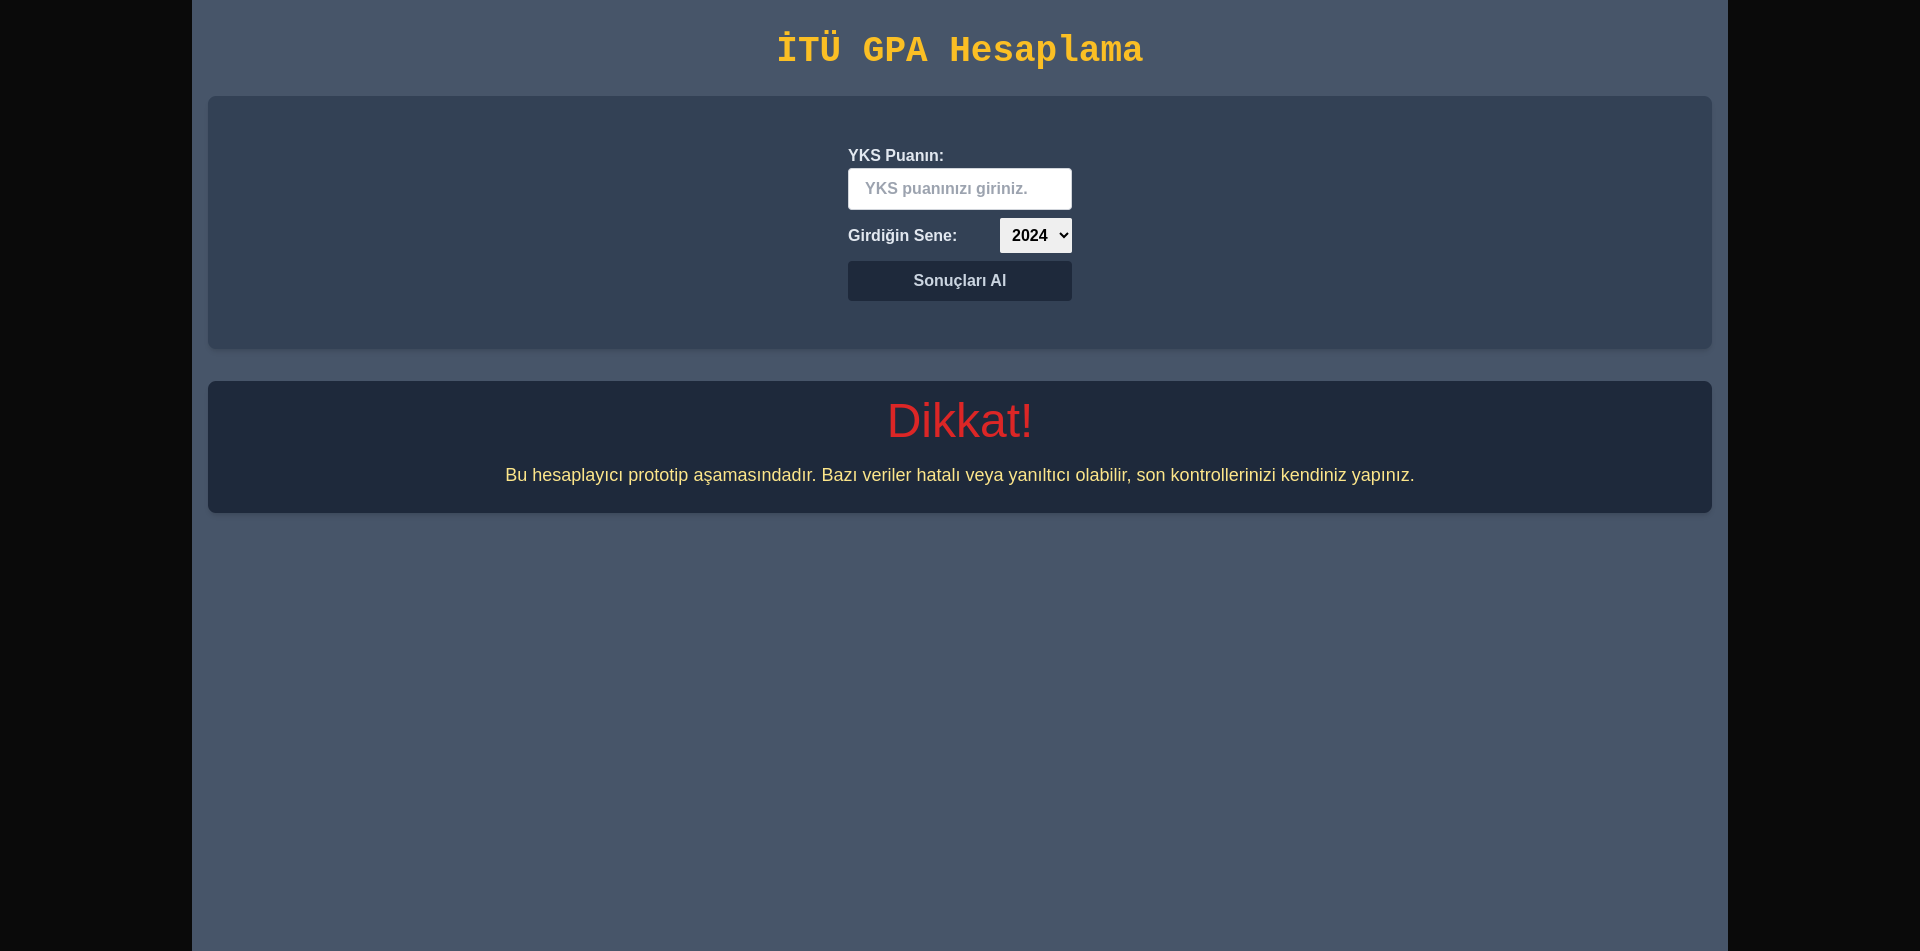
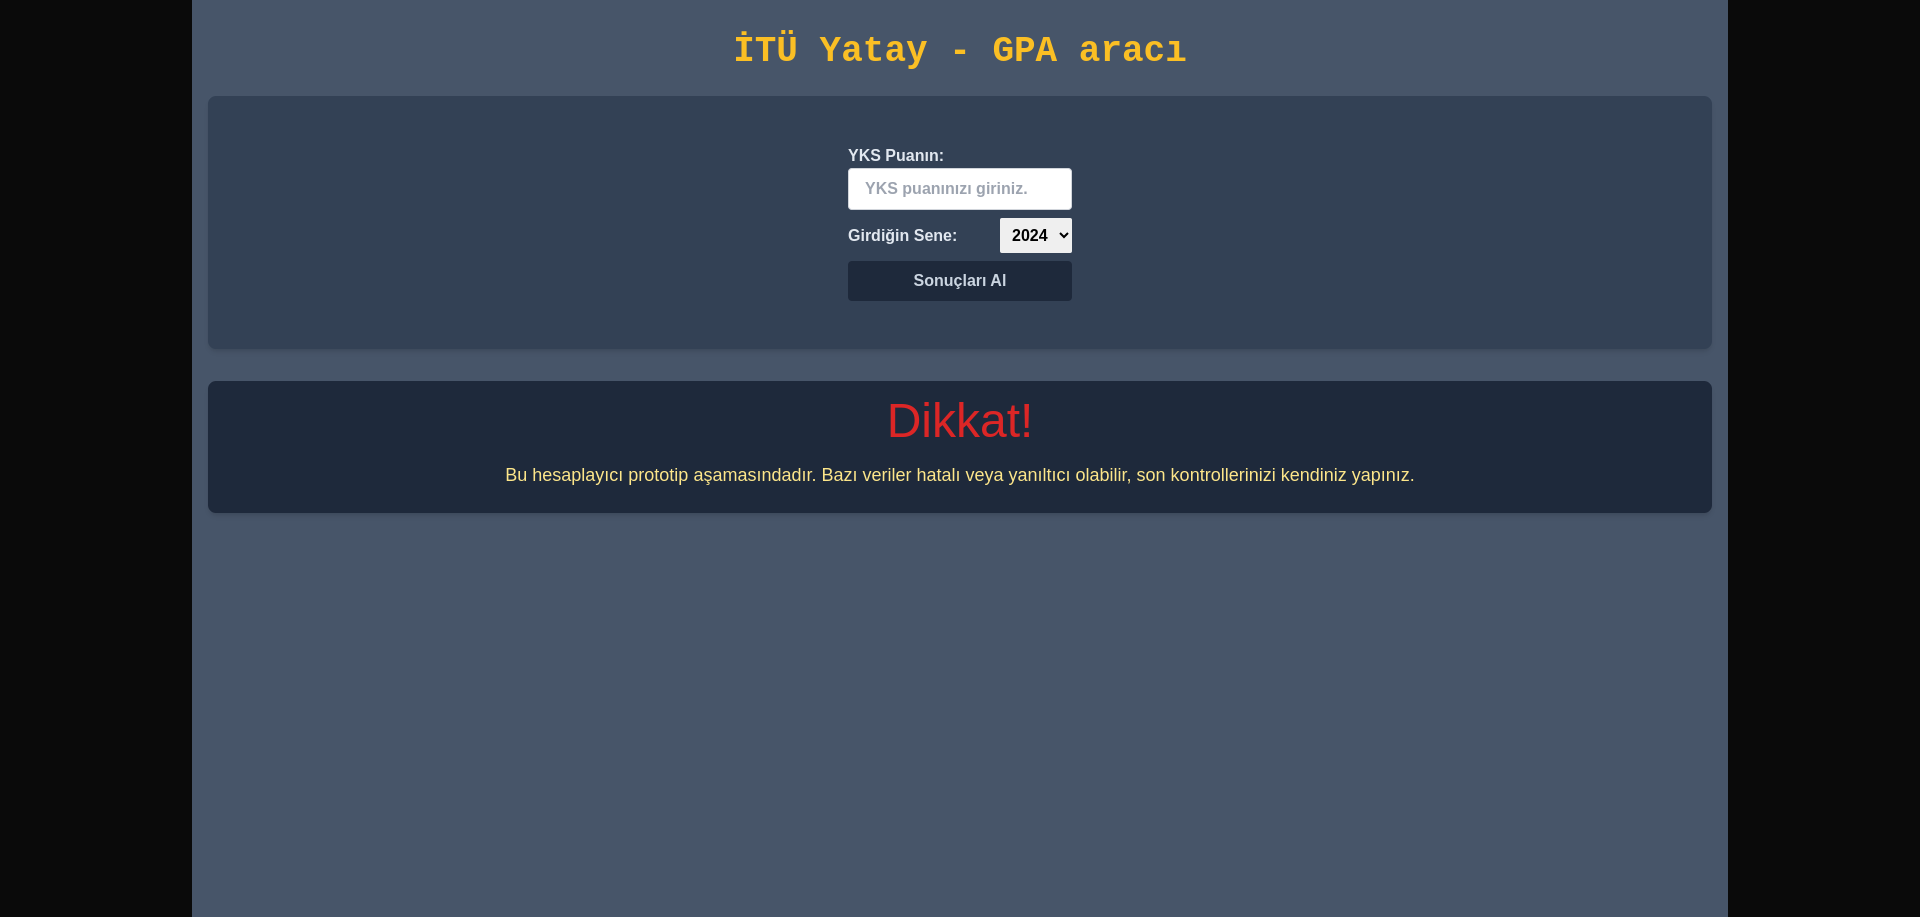
v1.0.2 - Yeniden İsimlendirildi

Changed region(s): [[0.0938, 0.3969, 0.9062, 0.5802], [0.4375, 0.1527, 0.5625, 0.3359], [0.375, 0.0305, 0.625, 0.0916]]

diff --git a/src/app/layout.tsx b/src/app/layout.tsx
@@ -14,8 +14,9 @@ const geistMono = localFont({
 });
 
 export const metadata: Metadata = {
-  title: "Create Next App",
-  description: "Generated by create next app",
+  title: "İTÜ Yatay - GPA",
+  description:
+    "İTÜ'de yatay geçiş için gereken GPA değerini hesaplamanıza yardımcı olan bir uygulamadır.",
 };
 
 export default function RootLayout({

diff --git a/src/app/page.tsx b/src/app/page.tsx
@@ -33,7 +33,7 @@ export default function Home() {
   return (
     <div className="container mx-auto px-4 py-8 bg-slate-600 min-h-screen">
       <h1 className="text-4xl font-bold font-mono mb-6 text-amber-400 text-center">
-        İTÜ GPA Hesaplama
+        İTÜ Yatay - GPA aracı
       </h1>
       <form
         onSubmit={handleSubmit}
